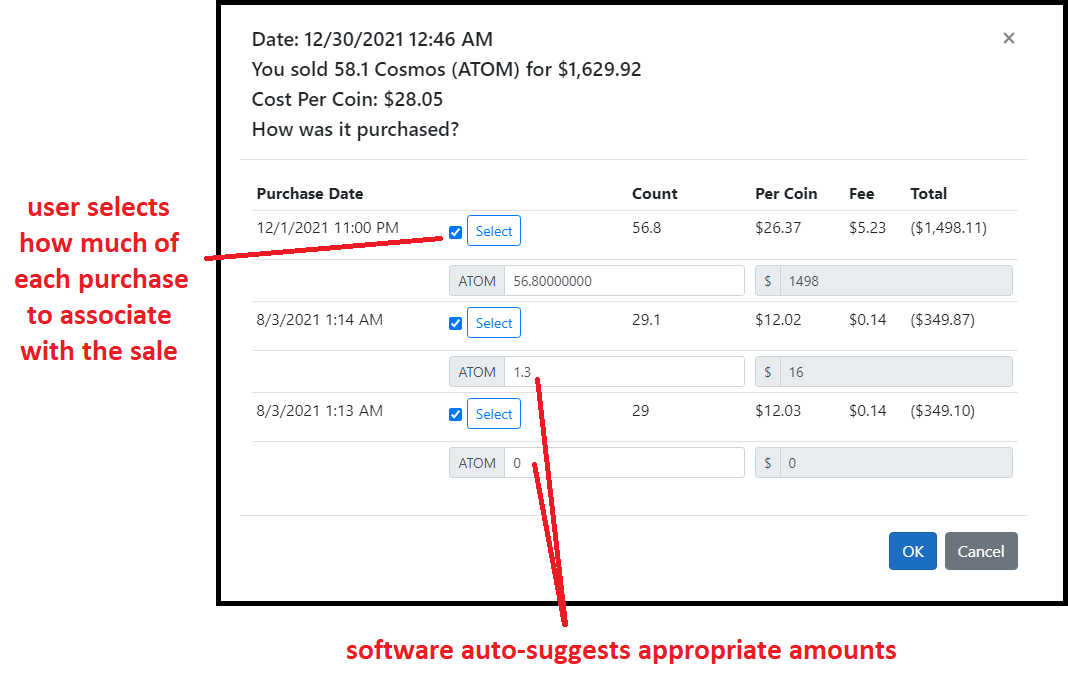
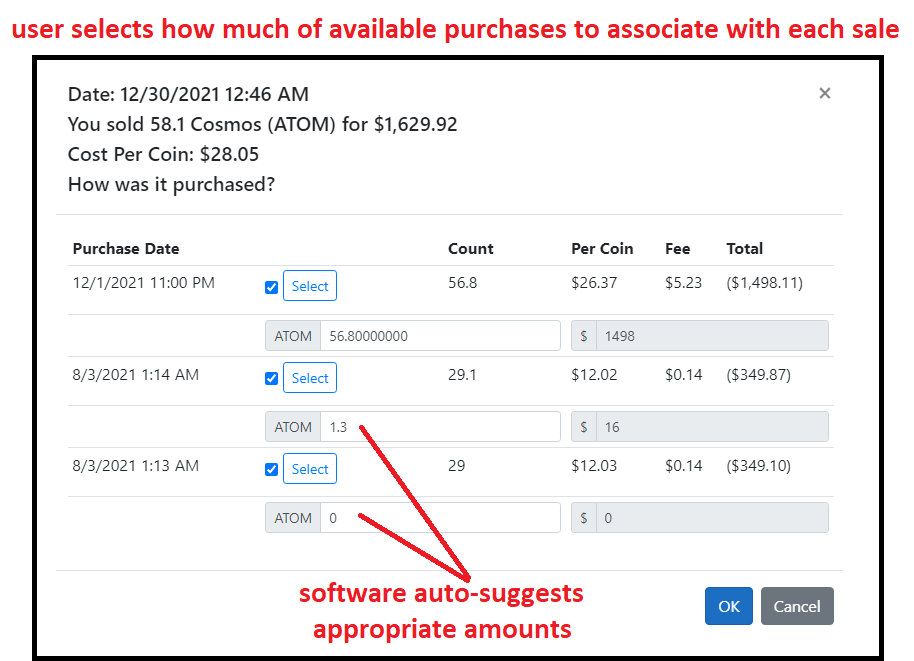
revise screenshots for good-looking text alignment and sectioning

diff --git a/readme.md b/readme.md
@@ -8,15 +8,17 @@ This project
 * displays total coin holdings and value
 * records tax impact and calculates profit/loss for tax purposes
 
-User Experience
+User Experience - Main Page
 -----
-![A screen capture of the application's main page](docs/images/summary_page.png)
+![The application's main page](docs/images/summary_page.png)
 
-![A screen capture of crypto sales that need to be associated with purchases for tax purposes](docs/images/tax_association_worklist.png)
-
-![A screen capture of choosing from available crypto purchases and amounts to associate with a sale for tax purposes](docs/images/tax_association_dialog.png)
-
-![A screen capture of profit, loss, and tax impact](docs/images/tax_association_summary.png)
+User Experience - Tax Calculation
+-----
+![Crypto sales that need to be associated with purchases for tax purposes](docs/images/tax_association_worklist.png)
+-----
+![Choosing from available crypto purchases and amounts to associate with a sale for tax purposes](docs/images/tax_association_dialog.png)
+-----
+![Profit, loss, and tax impact](docs/images/tax_association_summary.png)
 
 Design
 -----
